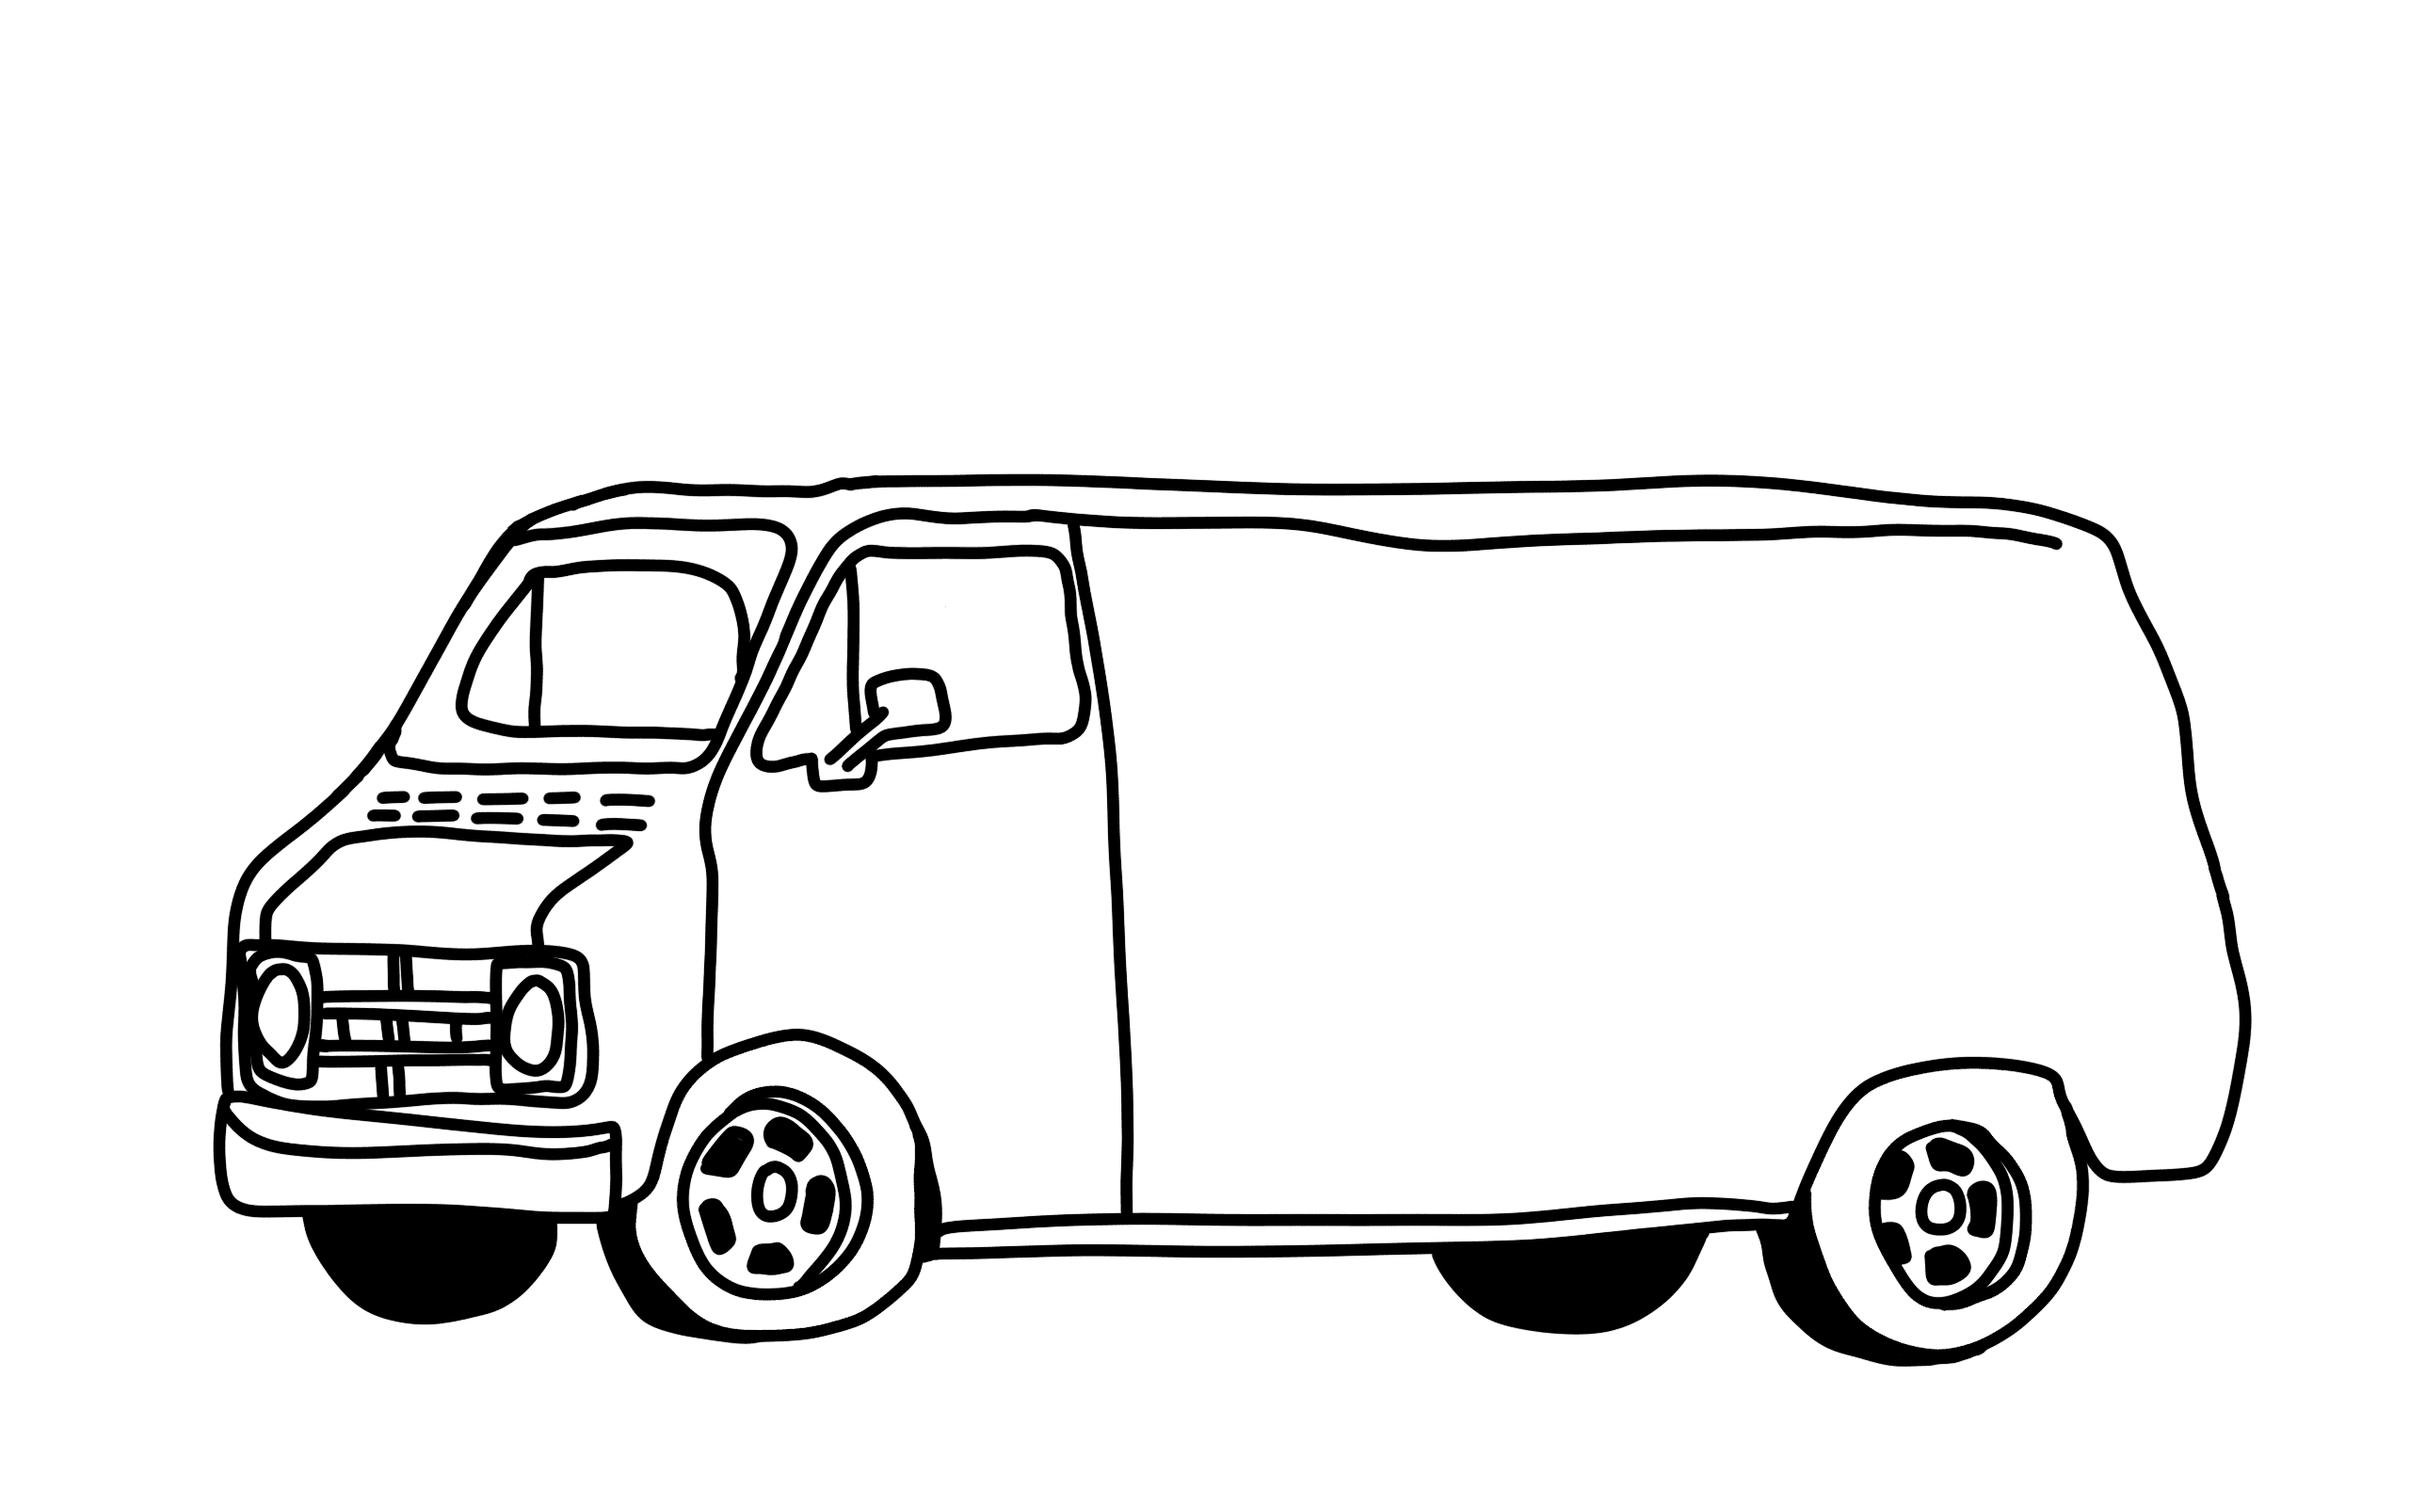
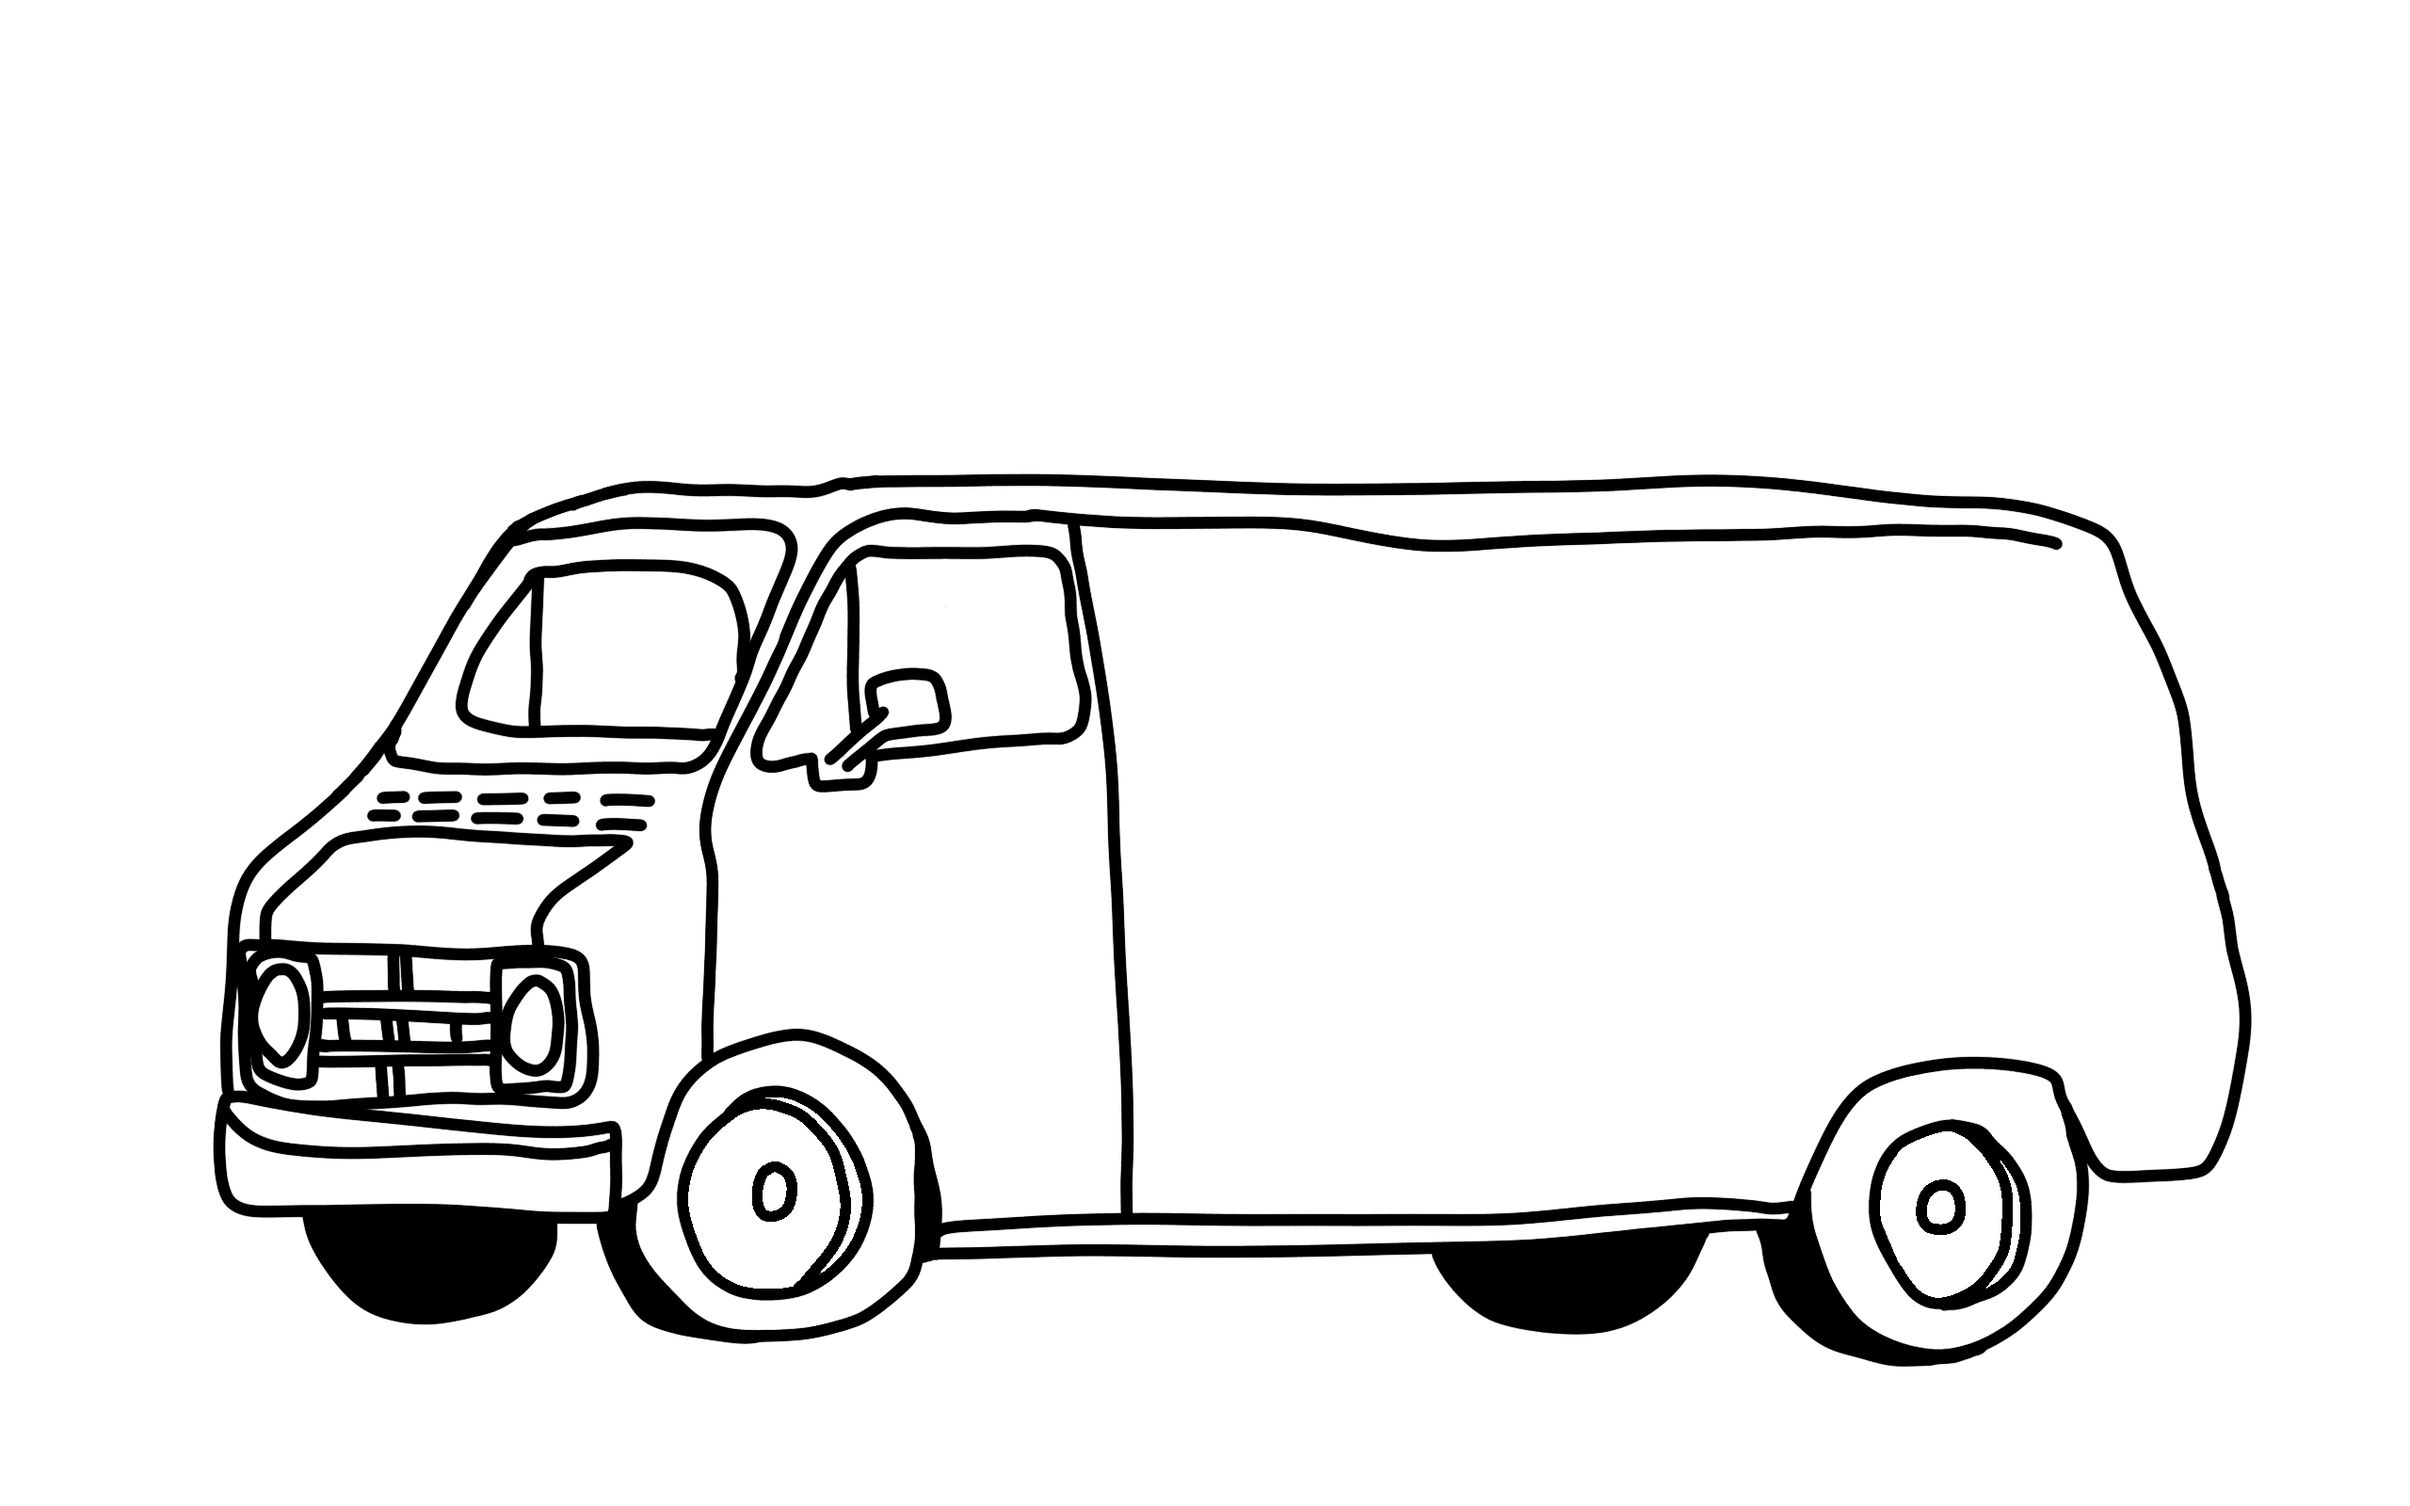
add wheel animation

Changed region(s): [[0.2812, 0.7188, 0.375, 0.8438], [0.7812, 0.75, 0.8438, 0.875]]

diff --git a/css/animations/wheels.css b/css/animations/wheels.css
@@ -1,54 +1,26 @@
-.first{
-    animation-duration: 4s;
-    animation-name: wheel1;
+.frontwheel{
+    overflow: hidden;
+    animation-duration: 3s;
+    animation-name: front;
     animation-iteration-count: infinite;
-    display: block;
-
+    animation-timing-function: linear;
+    transform-origin: 32.1% 79.5%;
 }
-@keyframes wheel1 {
-    0%{
-        opacity: 1;
-    }
-    50%{
-        opacity: 0;
-    }
+@keyframes front {
     100%{
-        opacity: 0;
+        transform: rotate(-360deg);
     }
 }
-.second{
-    animation-duration: 0.5s;
-    animation-name: wheel2;
+.backwheel{
+    overflow: hidden;
+    animation-duration: 3s;
+    animation-name: back;
     animation-iteration-count: infinite;
-    display: block;
-
+    animation-timing-function: linear;
+    transform-origin: 80.5% 80%;
 }
-@keyframes wheel2 {
-    0%{
-        opacity: 0;
-    }
-    50%{
-        opacity: 1;
-    }
+@keyframes back {
     100%{
-        opacity: 0;
-    }
-}
-.third{
-    animation-duration: 0.5s;
-    animation-name: wheel3;
-    animation-iteration-count: infinite;
-    display: block;
-
-}
-@keyframes wheel3 {
-    0%{
-        opacity: 0;
-    }
-    50%{
-        opacity: 0;
-    }
-    100%{
-        opacity: 1;
+        transform: rotate(-360deg);
     }
 }

diff --git a/index.html b/index.html
@@ -17,7 +17,7 @@
             <img src="./img/shadow.png" alt="shadow">
         </div>
         <div class="car closed active">
-            <img src="./img/Blank.png" alt="car">
+            <img src="./img/car.png" alt="car">
         </div>
         <div class="car open">
             <img src="./img/opencar.png" alt="opencar">
@@ -28,17 +28,16 @@
         <div class="head">
             <img src="./img/head.png" alt="head">
         </div>
-        <div class="wheel first">
-            <img src="./img/wheel1.png" alt="wheel1">
+        <div class="close">
+            <img src="./img/close.png" alt="close">
         </div>
-        <div class="wheel second">
-            <img src="./img/wheel2.png" alt="wheel2">
+        <div class="frontwheel">
+            <img src="./img/frontwheel.png" alt="frontwheel">
         </div>
-        <div class="wheel third">
-            <img src="./img/wheel3.png" alt="wheel3">
+        <div class="backwheel">
+            <img src="./img/backwheel.png" alt="backwheel">
         </div>
     </div>
-    <!-- <script async src="./scripts/wheels.js"></script> -->
     <script async src="./scripts/open.js"></script>
 </body>
 </html>

diff --git a/scripts/open.js b/scripts/open.js
@@ -1,25 +1,21 @@
 const closedCar = document.querySelector('.closed')
 const openCar = document.querySelector('.open')
 const print = document.querySelector('.print')
-const wheel1 = document.querySelector('.first')
-const wheel2 = document.querySelector('.second')
-const wheel3 = document.querySelector('.third')
-
+const close = document.querySelector('.close')
 
 closedCar.addEventListener('click', ()=>{
     if(openCar.classList.contains('open')){
         openCar.classList.add('active');
+        close.classList.add('active');
         closedCar.classList.remove('active');
-        wheel1.classList.add('inactive');
-        wheel2.classList.add('inactive');
-        wheel3.classList.add('inactive');
         print.classList.remove('active');
     }
 })
-openCar.addEventListener('click', ()=>{
+close.addEventListener('click', ()=>{
     if(closedCar.classList.contains('closed')){
         closedCar.classList.add('active');
         openCar.classList.remove('active');
+        close.classList.remove('active');
         print.classList.add('active');
     }
 })

diff --git a/css/style.css b/css/style.css
@@ -3,41 +3,35 @@ img{
     width: 95vw;
 }
 .shadow {
-    width: 10px;
     position: absolute;
-    z-index: -1;
+    z-index: 1;
 }
 .car{
     position: absolute;
     cursor: pointer;
-    user-select: none;
-    z-index: 1;
-}
-.staticcar {
-    position: absolute;
-    cursor: pointer;
-    user-select: none;
     z-index: 1;
 }
 .print {
     position: absolute;
-    z-index: -1;
+    z-index: 0;
 }
 .head {
     position: absolute;
-    z-index: -1;
+    z-index: 0;
 }
-.wheel{
+.close{
+    position: absolute;
+    z-index: 1;
+}
+.frontwheel{
     position: absolute;
     z-index: 0;
 }
-.first{
-    display: none;
-}
-.second{
-    display: none;
-}
-.third{
+.backwheel{
+    position: absolute;
+    z-index: 0;
+} 
+.close{
     display: none;
 }
 .closed{
@@ -47,9 +41,6 @@ img{
     display: none;
 }
 .print{
-    display: none;
-}
-.inactive{
     display: none;
 }
 .active{

diff --git a/css/animations/ride.css b/css/animations/ride.css
@@ -14,7 +14,7 @@ body{
       }
 }
 .closed{
-    animation-duration: 2s;
+    animation-duration: 1s;
     animation-name: carShake;
     animation-iteration-count: infinite;
 }
